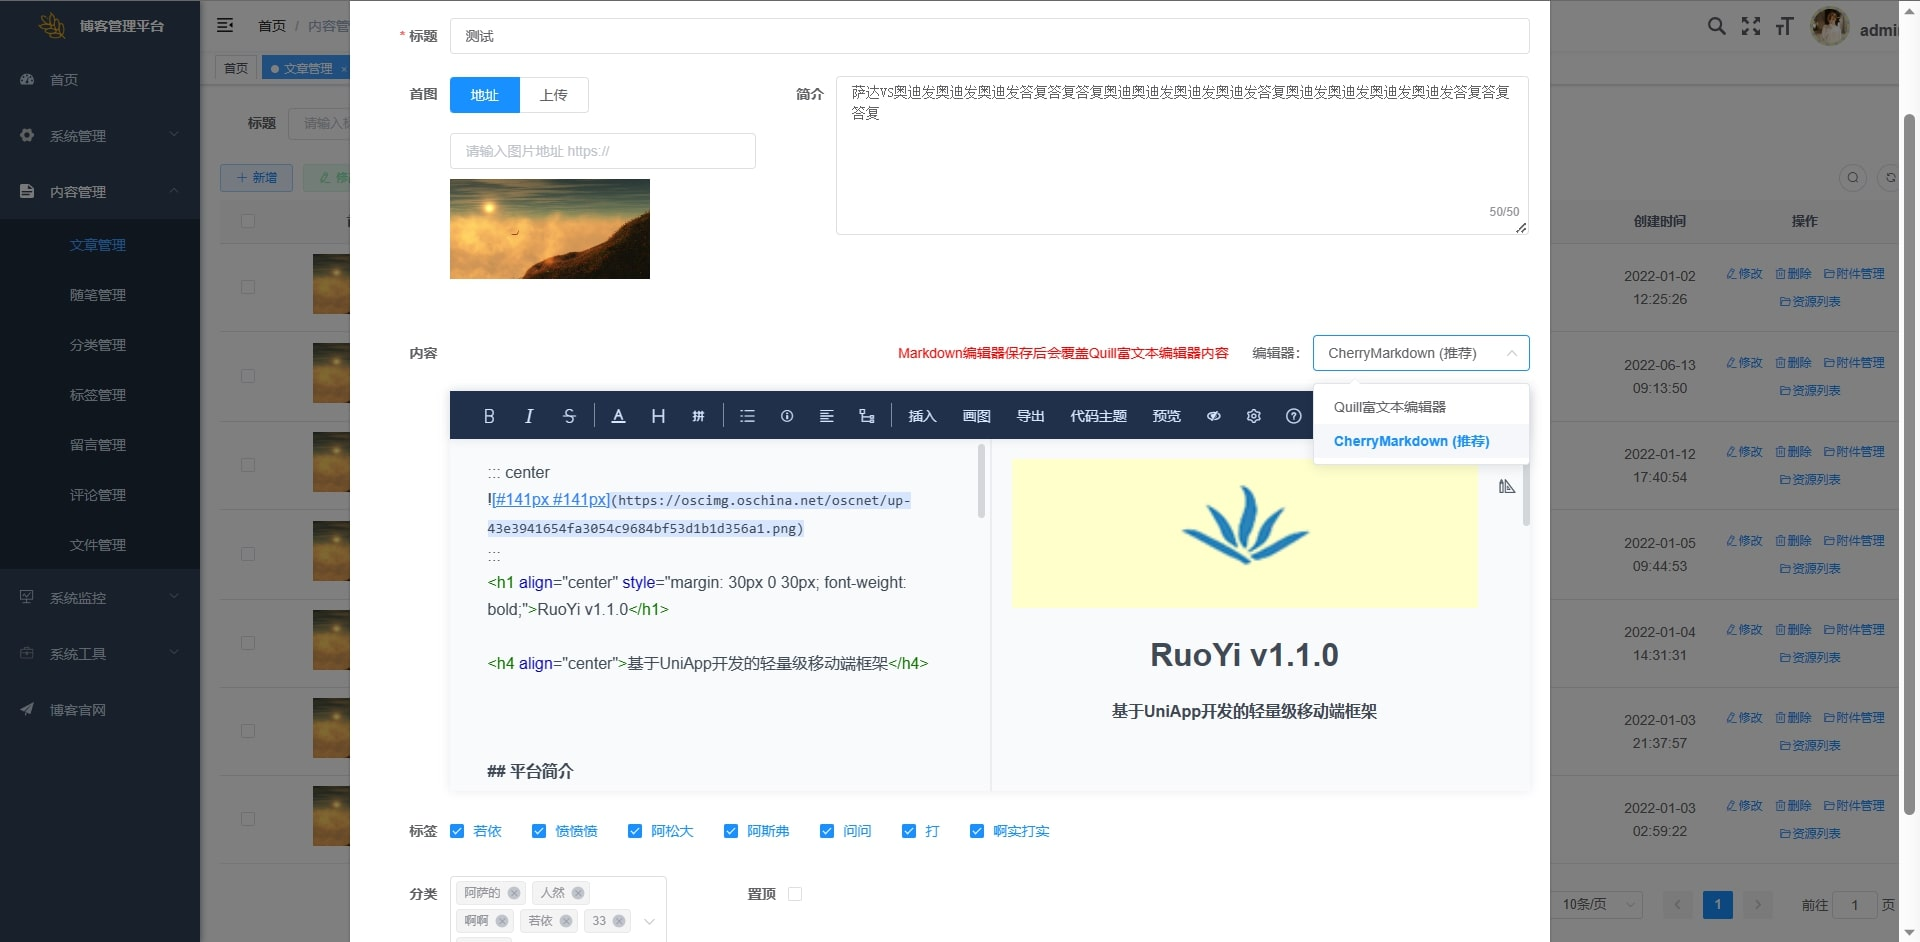
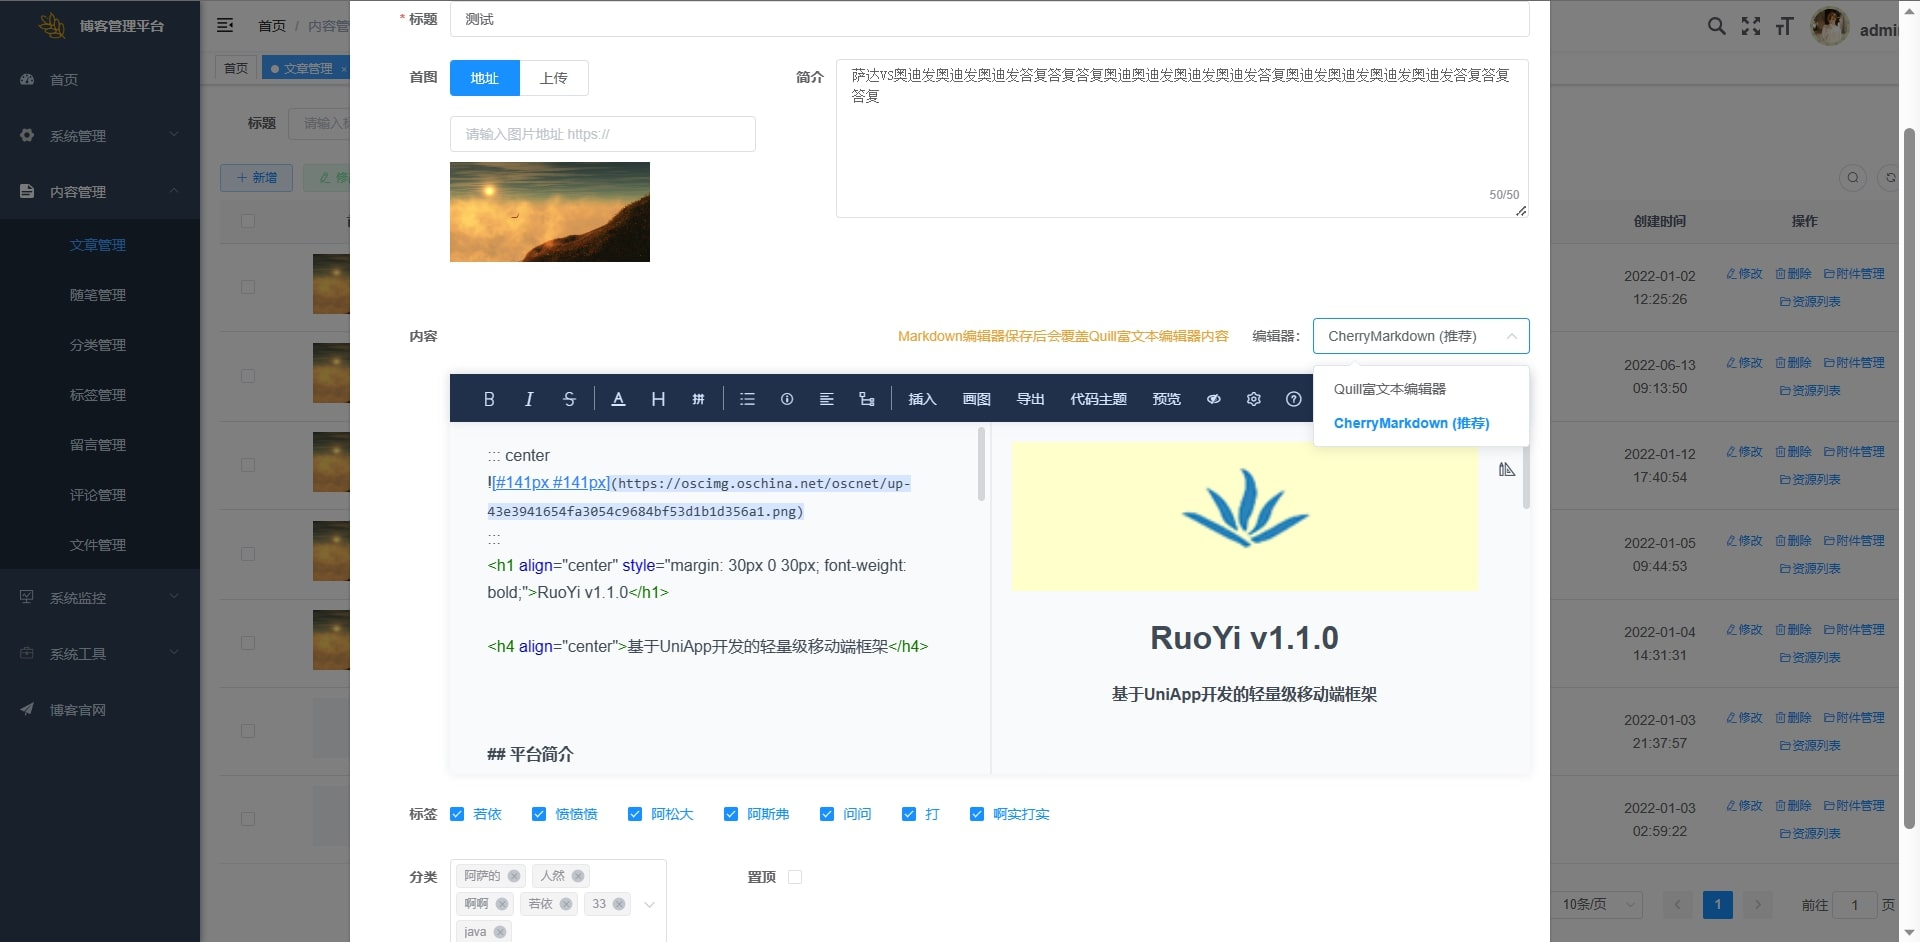
评论管理增加文章标题筛选

diff --git a/ruoyi-ui/src/views/cms/comment/index.vue b/ruoyi-ui/src/views/cms/comment/index.vue
@@ -9,6 +9,10 @@
         <el-input v-model="queryParams.content" placeholder="请输入评论内容" clearable size="small"
           @keyup.enter.native="handleQuery" />
       </el-form-item>
+      <el-form-item label="文章标题" prop="blogTitle">
+        <el-input v-model="queryParams.blogTitle" placeholder="请输入文章标题" clearable size="small"
+          @keyup.enter.native="handleQuery" />
+      </el-form-item>
       <el-form-item>
         <el-button type="primary" icon="el-icon-search" size="mini" @click="handleQuery">搜索</el-button>
         <el-button icon="el-icon-refresh" size="mini" @click="resetQuery">重置</el-button>
@@ -113,6 +117,9 @@
                 <span v-show="mes.type=='1'" class="rp">回复了</span>
                 <span v-show="mes.type=='1'" class="pcreateBy">{{mes.pcreateBy}}</span>
                 <span v-show="mes.type=='1'" class="rp">的评论</span>
+                <span class="rp">|</span>
+                <span class="rp">查看文章：</span>
+                <span class="blog" @click="getBlogInfo(mes)">{{mes.blogTitle}}</span>
               </div>
               <div class="op">
                 <span @click="getBlogInfo(mes)" class="blog">查看</span>
@@ -212,6 +219,7 @@ export default {
         content: null,
         type: null,
         blogId: null,
+        blogTitle: null,
         userId: null,
         delFlag: null,
         createBy: null,
@@ -409,7 +417,7 @@ export default {
 
   .nkname {
     margin-left: 10px;
-    max-width: 530px;
+    max-width: 830px;
     overflow: hidden;
     white-space: nowrap;
     text-overflow: ellipsis;

diff --git a/ruoyi-ui/src/views/cms/blog/index.vue b/ruoyi-ui/src/views/cms/blog/index.vue
@@ -141,7 +141,7 @@
           <!-- 图片用base64存储,url方式移动端会显示异常 -->
           <el-row style="margin-bottom: 20px;">
             <el-col align="right">
-              <span v-show="form.contentType ==='2'" style="color: red;margin-right: 20px;">Markdown编辑器保存后会覆盖Quill富文本编辑器内容</span>
+              <span v-show="form.contentType ==='2'" style="color: #E6A23C;margin-right: 20px;">Markdown编辑器保存后会覆盖Quill富文本编辑器内容</span>
               编辑器：
               <el-select v-model="form.contentType" placeholder="请选择">
                 <el-option key="1" label="Quill富文本编辑器" value="1" />

diff --git a/ruoyi-ui/src/views/cms/blog/essay.vue b/ruoyi-ui/src/views/cms/blog/essay.vue
@@ -80,7 +80,7 @@
           <!-- 图片用base64存储,url方式移动端会显示异常 -->
           <el-row style="margin-bottom: 20px;">
             <el-col align="right">
-              <span v-show="form.contentType ==='2'" style="color: red;margin-right: 20px;">Markdown编辑器保存后会覆盖Quill富文本编辑器内容</span>
+              <span v-show="form.contentType ==='2'" style="color: #E6A23C;margin-right: 20px;">Markdown编辑器保存后会覆盖Quill富文本编辑器内容</span>
               编辑器：
               <el-select v-model="form.contentType" placeholder="请选择">
                 <el-option key="1" label="Quill富文本编辑器" value="1" />

diff --git a/ruoyi-cms/src/main/java/com/ruoyi/cms/comment/service/impl/CmsCommentServiceImpl.java b/ruoyi-cms/src/main/java/com/ruoyi/cms/comment/service/impl/CmsCommentServiceImpl.java
@@ -3,10 +3,13 @@ package com.ruoyi.cms.comment.service.impl;
 import java.util.ArrayList;
 import java.util.List;
 
+import com.ruoyi.cms.blog.domain.CmsBlog;
+import com.ruoyi.cms.blog.mapper.CmsBlogMapper;
 import com.ruoyi.cms.comment.domain.CmsCommentLike;
 import com.ruoyi.cms.comment.mapper.CmsCommentLikeMapper;
 import com.ruoyi.common.core.domain.entity.SysUser;
 import com.ruoyi.common.utils.DateUtils;
+import com.ruoyi.common.utils.StringUtils;
 import com.ruoyi.system.mapper.SysUserMapper;
 import org.springframework.beans.factory.annotation.Autowired;
 import org.springframework.stereotype.Service;
@@ -31,6 +34,9 @@ public class CmsCommentServiceImpl implements ICmsCommentService
 
     @Autowired
     private CmsCommentLikeMapper cmsCommentLikeMapper;
+
+    @Autowired
+    private CmsBlogMapper cmsBlogMapper;
 
 
     /**
@@ -196,6 +202,12 @@ public class CmsCommentServiceImpl implements ICmsCommentService
             if (parentId!=null){
                 CmsComment parentComment = cmsCommentMapper.selectCmsCommentById(parentId);
                 comment.setPCreateBy(parentComment.getCreateBy());
+            }
+            //添加博客信息
+            Long blogId = comment.getBlogId();
+            if (blogId!=null){
+                CmsBlog blog = cmsBlogMapper.selectCmsBlogById(blogId);
+                comment.setBlogTitle(blog.getTitle());
             }
         }
         //排序

diff --git a/ruoyi-cms/src/main/java/com/ruoyi/cms/comment/domain/CmsComment.java b/ruoyi-cms/src/main/java/com/ruoyi/cms/comment/domain/CmsComment.java
@@ -44,6 +44,9 @@ public class CmsComment extends BaseEntity
     @Excel(name = "被评论者id，可以是人、项目、资源")
     private Long blogId;
 
+    /** 文章标题 */
+    private String blogTitle;
+
     /** 删除标志（0代表存在 1代表删除） */
     private String delFlag;
 
@@ -173,6 +176,14 @@ public class CmsComment extends BaseEntity
         return isLike;
     }
 
+    public String getBlogTitle() {
+        return blogTitle;
+    }
+
+    public void setBlogTitle(String blogTitle) {
+        this.blogTitle = blogTitle;
+    }
+
     public void setIsLike(boolean like) {
         isLike = like;
     }
@@ -187,6 +198,7 @@ public class CmsComment extends BaseEntity
             .append("content", getContent())
             .append("type", getType())
             .append("blogId", getBlogId())
+            .append("blogTitle", getBlogTitle())
             .append("delFlag", getDelFlag())
             .append("userId", getUserId())
             .append("createBy", getCreateBy())

diff --git a/ruoyi-ui/README.md b/ruoyi-ui/README.md
@@ -126,7 +126,7 @@ RuoYi-Vue是一款基于SpringBoot+Vue的前后端分离极速后台开发框架
     </tr>
 	<tr>
         <td><img src="public/systemImg/留言管理.png"/></td>
-        <td><img src="public/systemImg/评论管理.png"/></td>
+        <td><img src="public/systemImg/评论管理.jpg"/></td>
     </tr>
 	<tr>
         <td><img src="public/systemImg/文件管理.png"/></td>
